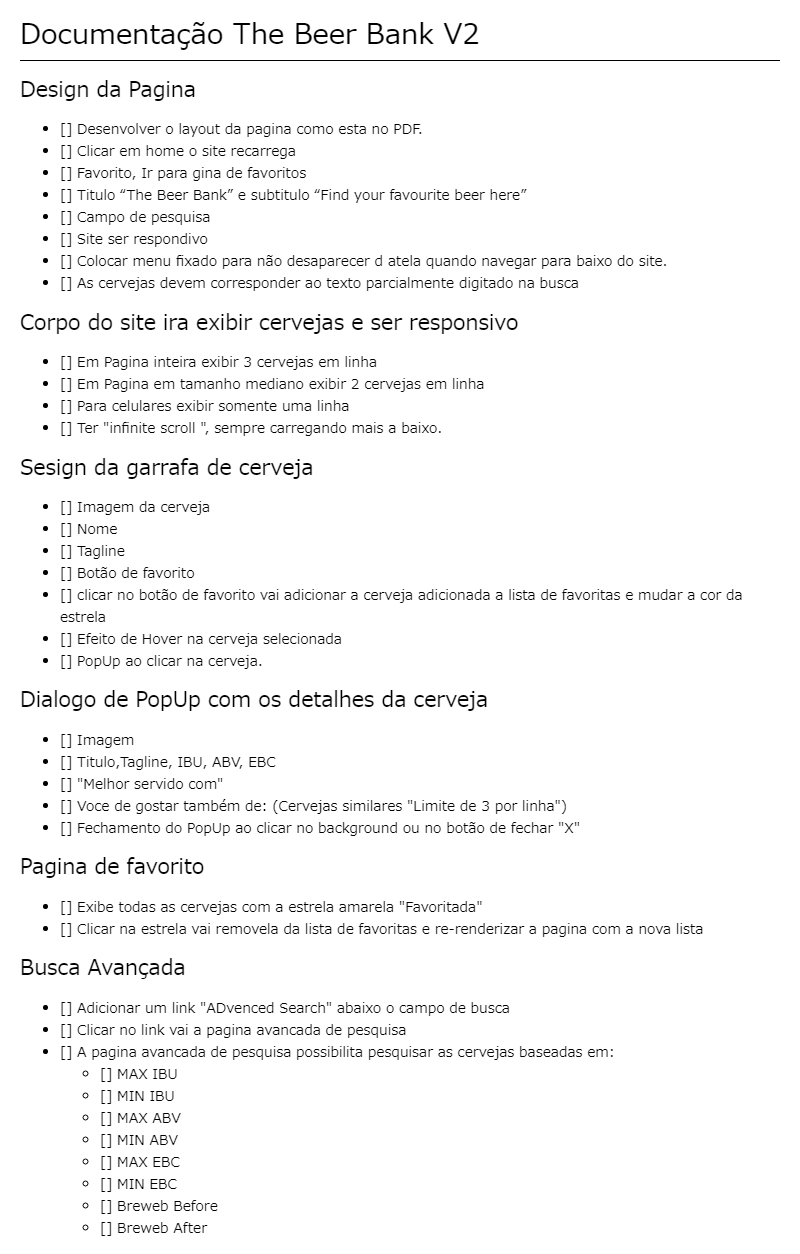
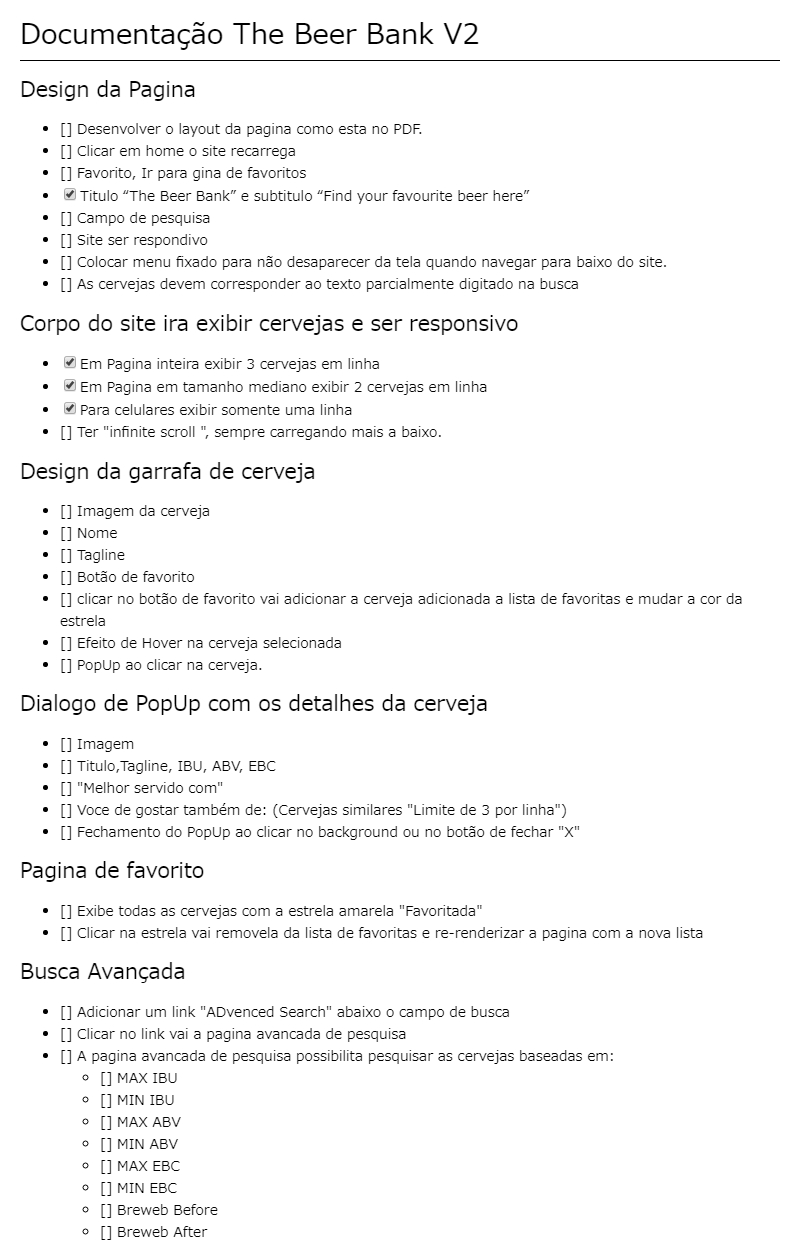
docs

diff --git a/doc.md b/doc.md
@@ -4,20 +4,20 @@
 - [] Desenvolver o layout da pagina como esta no PDF.
 - [] Clicar em home o site recarrega
 - [] Favorito, Ir para gina de favoritos
-- [] Titulo “The Beer Bank” e subtitulo “Find your favourite beer here”
+- [x] Titulo “The Beer Bank” e subtitulo “Find your favourite beer here”
 - [] Campo de pesquisa
 - [] Site ser respondivo
-- [] Colocar menu fixado para não desaparecer d atela quando navegar para baixo do site.
+- [] Colocar menu fixado para não desaparecer da tela quando navegar para baixo do site.
 - [] As cervejas devem corresponder ao texto parcialmente digitado na busca
 
 ## Corpo do site ira exibir cervejas e ser responsivo
 
-- [] Em Pagina inteira exibir 3 cervejas em linha
-- [] Em Pagina em tamanho mediano exibir 2 cervejas em linha
-- [] Para celulares exibir somente uma linha
+- [x] Em Pagina inteira exibir 3 cervejas em linha
+- [x] Em Pagina em tamanho mediano exibir 2 cervejas em linha
+- [x] Para celulares exibir somente uma linha
 - [] Ter "infinite scroll ", sempre carregando mais a baixo.
 
-## Sesign da garrafa de cerveja
+## Design da garrafa de cerveja
 
 - [] Imagem da cerveja
 - [] Nome
